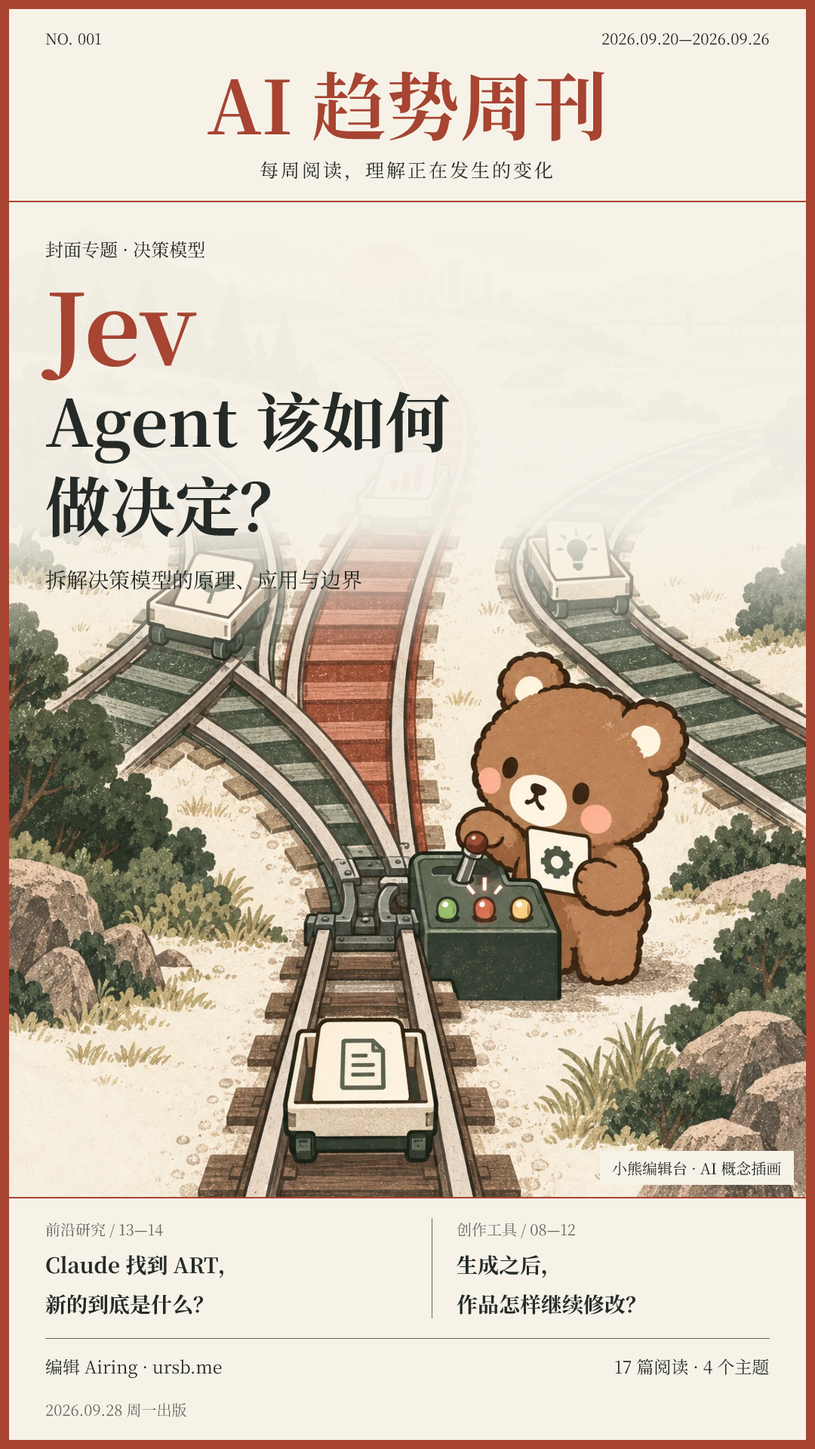
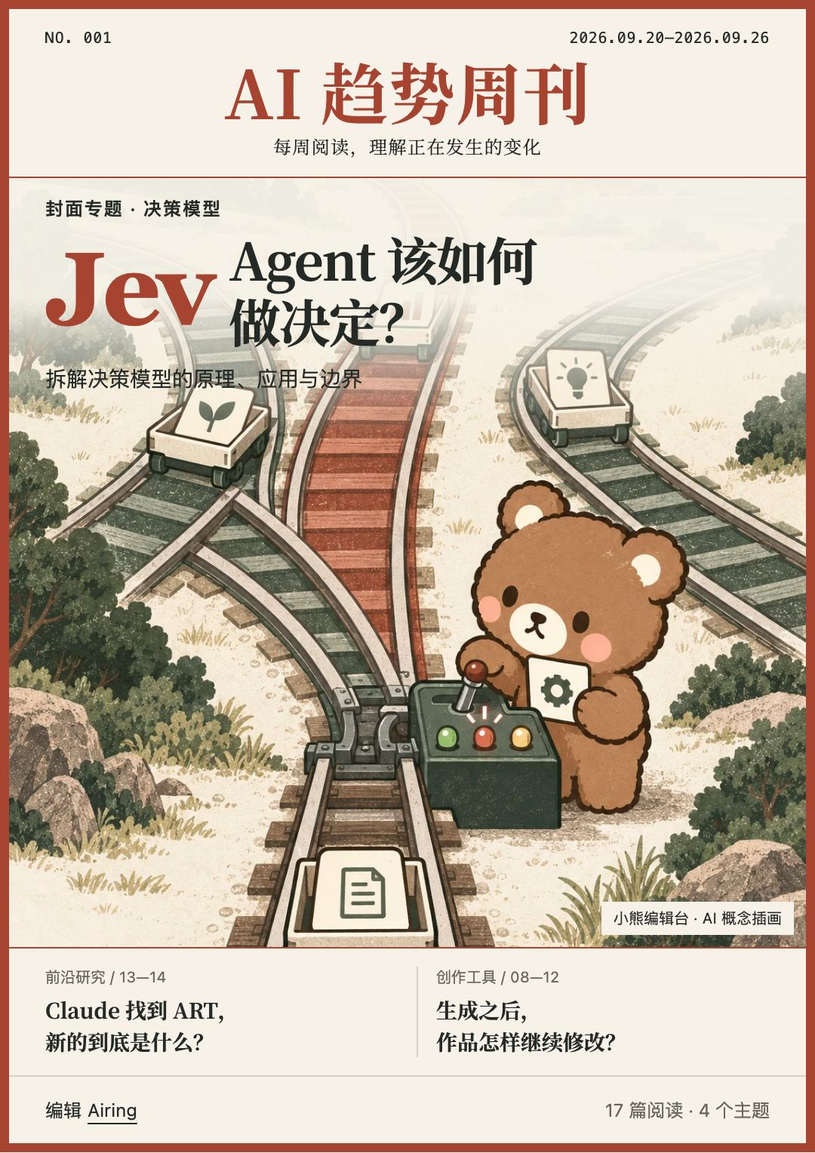
feat(reading): recompose weekly covers in A4 format

diff --git a/public/reading/weekly/001/cover.css b/public/reading/weekly/001/cover.css
@@ -1,32 +1,46 @@
 :root {
-  --cover-edge: 6px; --cover-brand: 48px; --cover-title: 42px;
-  --cover-subject: 64px; --cover-gutter: var(--s6); --cover-width: 540px;
+  --cover-edge: 6px; --cover-width: 540px; --cover-ratio: 210 / 297;
   --cover-wash: rgb(246 242 232 / .96); --cover-fade: rgb(246 242 232 / 0);
 }
 .issue-front { display: grid; grid-template-columns: minmax(0,var(--cover-width)) minmax(0,1fr); gap: var(--s12); padding-top: var(--s3); align-items: start; }
-.issue-cover { border: var(--cover-edge) solid var(--accent); min-width: 0; }
-.cover-masthead { padding: var(--s3) var(--cover-gutter) var(--s4); text-align: center; }
-.cover-edition { display: flex; justify-content: space-between; gap: var(--s2); font: 10px/1.8 var(--mono); letter-spacing: .03em; }
-.cover-masthead h1 { margin: var(--s2) 0; color: var(--accent); font: 700 var(--cover-brand)/1.2 var(--serif); letter-spacing: .015em; white-space: nowrap; }
-.cover-strapline { font: var(--meta)/1.6 var(--serif); letter-spacing: .1em; }
-.cover-art { position: relative; border-top: 1px solid var(--accent); }
-.cover-art > img { width: 100%; height: auto; }
-.cover-story { position: absolute; inset: 0 0 auto; padding: var(--s6) var(--cover-gutter) var(--s16); background: linear-gradient(var(--cover-wash) 0%,var(--cover-wash) 65%,var(--cover-fade) 100%); }
-.cover-kicker { font: 600 var(--meta)/1.6 var(--sans); letter-spacing: var(--wide-track); }
-.cover-story h2 { font: 700 var(--cover-title)/1.3 var(--serif); text-align: left; letter-spacing: -.025em; margin-top: var(--s1); }
-.cover-story h2 > span { display: block; }
-.cover-story .cover-subject { font: 700 var(--cover-subject)/1.05 Georgia,var(--serif); color: var(--accent); letter-spacing: -.04em; margin-bottom: var(--s2); }
-.cover-dek { font: var(--action)/1.7 var(--sans); margin-top: var(--s3); }
-.cover-art-credit { position: absolute; inset: auto var(--s2) var(--s2) auto; font: 10px/1.6 var(--sans); padding: var(--s1) var(--s2); background: var(--paper); }
-.cover-lines { display: grid; grid-template-columns: repeat(2,minmax(0,1fr)); padding: var(--s4) var(--cover-gutter); gap: var(--s4); border-top: 1px solid var(--accent); }
-.cover-lines a { text-decoration: none; min-width: 0; }
-.cover-lines a + a { border-left: 1px solid var(--faint); padding-left: var(--s4); }
+.issue-cover {
+  --cover-brand: clamp(22px,8.34cqw,44px); --cover-title: clamp(17px,6.44cqw,34px);
+  --cover-subject: clamp(32px,12.88cqw,68px); --cover-meta: clamp(8px,2.28cqw,12px);
+  --cover-copy: clamp(9px,2.66cqw,14px); --cover-deck: clamp(8px,2.66cqw,14px);
+  --cover-gutter: clamp(8px,4.55cqw,24px); --cover-space: clamp(4px,2.28cqw,12px);
+  --cover-micro: clamp(2px,.758cqw,4px); --cover-small: clamp(4px,1.516cqw,8px);
+  --cover-print: clamp(7px,1.9cqw,10px); --cover-wash-space: clamp(16px,6.062cqw,32px);
+  --cover-target: clamp(32px,8.334cqw,44px);
+  display: grid; grid-template-rows: auto minmax(0,1fr) auto auto;
+  width: 100%; min-width: 0; aspect-ratio: var(--cover-ratio);
+  border: var(--cover-edge) solid var(--accent); background: var(--paper);
+  container-type: inline-size;
+}
+.cover-masthead { padding: var(--cover-space) var(--cover-gutter); text-align: center; }
+.cover-edition { display: flex; justify-content: space-between; gap: var(--cover-small); font: var(--cover-print)/1.4 var(--mono); letter-spacing: .03em; white-space: nowrap; }
+.cover-masthead h1 { margin: var(--cover-micro) 0; color: var(--accent); font: 700 var(--cover-brand)/1.1 var(--serif); letter-spacing: .015em; white-space: nowrap; }
+.cover-strapline { font: var(--cover-meta)/1.4 var(--serif); letter-spacing: .06em; }
+.cover-art { position: relative; min-height: 0; overflow: hidden; border-top: 1px solid var(--accent); }
+.cover-art > img { width: 100%; height: 100%; object-fit: cover; object-position: 50% 65%; }
+.cover-story { position: absolute; inset: 0 0 auto; padding: var(--cover-space) var(--cover-gutter) var(--cover-wash-space); background: linear-gradient(var(--cover-wash) 0%,var(--cover-wash) 45%,var(--cover-fade) 100%); }
+.cover-kicker { font: 600 var(--cover-meta)/1.4 var(--sans); letter-spacing: var(--wide-track); }
+.cover-story h2 { display: grid; grid-template-columns: auto minmax(0,1fr); column-gap: var(--cover-space); align-items: center; font: 700 var(--cover-title)/1.2 var(--serif); text-align: left; letter-spacing: -.025em; margin-top: var(--cover-micro); }
+.cover-story h2 > span { display: block; white-space: nowrap; }
+.cover-story .cover-subject { grid-row: 1 / 3; font: 700 var(--cover-subject)/1.05 Georgia,var(--serif); color: var(--accent); letter-spacing: -.04em; }
+.cover-dek { font: var(--cover-deck)/1.5 var(--sans); margin-top: var(--cover-small); }
+.cover-art-credit { position: absolute; inset: auto var(--cover-small) var(--cover-small) auto; max-width: calc(100% - 2 * var(--cover-small)); font: var(--cover-print)/1.4 var(--sans); padding: var(--cover-micro) var(--cover-small); background: var(--paper); }
+.cover-lines { display: grid; grid-template-columns: repeat(2,minmax(0,1fr)); padding: var(--cover-space) var(--cover-gutter); gap: var(--cover-space); border-top: 1px solid var(--accent); }
+.cover-lines a { text-decoration: none; min-width: 0; min-height: var(--cover-target); }
+.cover-lines a + a { border-left: 1px solid var(--faint); padding-left: var(--cover-space); }
 .cover-lines a:hover strong { text-decoration: underline; text-underline-offset: var(--s1); }
-.cover-lines span { display: block; font: 10px/1.7 var(--sans); color: var(--muted); margin-bottom: var(--s2); }
-.cover-lines strong { font: 700 var(--action)/1.8 var(--serif); }
-.cover-byline { display: flex; align-items: center; gap: var(--s2); padding: 0 var(--cover-gutter); border-top: 1px solid var(--faint); font: var(--meta)/1.6 var(--sans); }
-.cover-byline a { display: inline-flex; align-items: center; min-height: var(--target); }
+.cover-lines span { display: block; font: var(--cover-print)/1.4 var(--sans); color: var(--muted); margin-bottom: var(--cover-micro); }
+.cover-lines strong { font: 700 var(--cover-copy)/1.5 var(--serif); }
+.cover-byline { display: flex; align-items: center; gap: var(--cover-micro); padding: 0 var(--cover-gutter); border-top: 1px solid var(--faint); font: var(--cover-meta)/1.4 var(--sans); white-space: nowrap; }
+.cover-byline a { display: inline-flex; align-items: center; min-width: var(--s6); min-height: var(--cover-target); }
 .cover-byline > span { margin-left: auto; color: var(--muted); }
+:lang(en) .issue-cover { --cover-brand: clamp(22px,7.96cqw,42px); --cover-title: clamp(16px,5.69cqw,30px); }
+:lang(en) .cover-masthead h1 { letter-spacing: -.04em; }
+:lang(en) .cover-strapline { letter-spacing: 0; }
 .issue-desk { padding-top: var(--s3); }
 .desk-heading { display: flex; justify-content: space-between; align-items: center; flex-wrap: wrap; gap: var(--s3); padding-bottom: var(--s4); border-bottom: 1px solid var(--ink); }
 .issue-serial { font: var(--meta)/1.8 var(--sans); white-space: nowrap; }
@@ -66,7 +80,6 @@
 .issue-index[open] .index-label-closed { display: none; }
 .outside-bar .quick-contents { min-height: var(--target); }
 @media (max-width:1000px) {
- :root { --cover-brand: 46px; --cover-title: 40px; --cover-subject: 60px; }
  .issue-front { grid-template-columns: 1fr; gap: var(--s8); }
  .issue-cover { width: min(100%,var(--cover-width)); justify-self: center; }
  .issue-desk { padding-top: 0; }
@@ -75,19 +88,8 @@
  .desk-actions { flex-direction: row; flex-wrap: wrap; align-items: center; gap: var(--s3) var(--s6); }
 }
 @media (max-width:680px) {
- :root { --cover-edge: 4px; --cover-brand: 30px; --cover-title: 27px; --cover-subject: 44px; --cover-gutter: var(--s3); }
+ :root { --cover-edge: 4px; }
  .issue-front { padding-top: 0; gap: var(--s6); }
- .cover-edition { flex-direction: column; gap: 0; font-size: 10px; }
- .cover-masthead { padding-top: var(--s2); padding-bottom: var(--s3); }
- .cover-strapline { font-size: 10px; letter-spacing: 0; }
- .cover-story { padding-top: var(--s3); padding-bottom: var(--s10); }
- .cover-kicker { font-size: 10px; }
- .cover-dek { font-size: var(--meta); margin-top: var(--s2); max-width: 16em; }
- .cover-lines { padding-top: var(--s3); padding-bottom: var(--s3); gap: var(--s2); }
- .cover-lines a + a { padding-left: var(--s2); }
- .cover-lines strong { font-size: var(--meta); }
- .cover-lines span { font-size: 10px; margin-bottom: var(--s1); }
- .cover-byline { font-size: 10px; gap: var(--s1); }
  .issue-desk h2 { font-size: var(--minor); }
  .issue-facts { display: block; }
  .issue-guide { margin-top: var(--s8); }

diff --git a/src/data/ai-weekly/001.en.html b/src/data/ai-weekly/001.en.html
@@ -1,7 +1,7 @@
 <!DOCTYPE html><html lang="en"><head><meta charset="utf-8"><meta name="viewport" content="width=device-width, initial-scale=1"><meta name="description" content="AI Trends Weekly 001: Jev and agent decisions. Sixteen in-depth columns from Airing’s Reading Stream on decision models, AI creation and Claude’s biology research."><meta name="author" content="Airing"><meta name="theme-color" content="#f6f2e8"><title>AI Trends Weekly 001 · Jev: how should an agent make decisions?</title><link rel="canonical" href="https://ursb.me/en/reading/weekly/001/"><meta property="og:type" content="article"><meta property="og:title" content="AI Trends Weekly 001 · Jev: how should an agent make decisions?"><meta property="og:image" content="https://ursb.me/reading/weekly/001/assets/share-cover-01-en.png"><meta property="og:url" content="https://ursb.me/en/reading/weekly/001/"><link rel="icon" href="data:,"><link rel="preload" href="/reading/weekly/001/assets/serif-400.woff2" as="font" type="font/woff2" crossorigin=""><link rel="preload" href="/reading/weekly/001/assets/serif-700.woff2" as="font" type="font/woff2" crossorigin=""><link rel="stylesheet" href="/reading/weekly/001/tokens.css"><link rel="stylesheet" href="/reading/weekly/001/issue.css"><link rel="stylesheet" href="/reading/weekly/001/cover.css"><link rel="stylesheet" href="/reading/weekly/001/source-layout.css"><link rel="stylesheet" href="/reading/weekly/001/share.css"></head>
 <body><a class="skip" href="#agents">Skip to articles</a><div class="outside-bar"><a href="/en/reading/weekly/">← All issues</a><a class="quick-contents" href="#issue-guide">Inside this issue ↓</a></div>
 <main class="paper" id="main"><header id="top" class="issue-front">
-  <div class="issue-cover" aria-labelledby="publication-name">
+  <div class="issue-cover" data-cover-format="a4" aria-labelledby="publication-name">
     <div class="cover-masthead">
       <p class="cover-edition"><span>NO. 001</span><span>2026.09.20—2026.09.26</span></p>
       <h1 id="publication-name">AI Trends Weekly</h1>
@@ -155,7 +155,7 @@
 <section class="editorial-note" aria-labelledby="editorial-title"><h2 id="editorial-title">About this issue</h2><p>This issue covers 17 reads saved September 20–26 in UTC+8, edited into 16 columns. The Made with Jev showcase was saved on both September 20 and 21; column 05 discusses them together and retains both Reading Stream links. Other reports on the same topic have separate columns. The articles combine original sources, primary materials and editorial analysis. Quoted figures retain their measurement definitions; author- or vendor-reported results are not our own tests. Jev’s public examples, the unknowns in ART’s mechanism and numerical discrepancies between sources are discussed in the relevant columns.</p><p>Editor: <a href="https://ursb.me/en/" rel="author">Airing</a>. The bear comes from Airing’s homepage. The cover and three thematic illustrations are AI-generated editorial concepts. Original and verification links follow each article. The full collection is available through the <a href="https://ursb.me/en/reading/feed.xml">Reading Stream RSS</a>.</p></section>
 <footer class="colophon"><span>AI Trends Weekly · No. 001</span><span>Edited by <a href="https://ursb.me/en/" rel="author">Airing</a> / Edited with AI assistance</span><button class="share-trigger" type="button" aria-haspopup="dialog">Share this issue ↗</button><a class="action" href="#top">Back to cover ↑</a><p>September 20–26, 2026 · Published Monday, September 28. 17 saved reads, 16 columns, 4 themes.</p></footer></main><p class="outside-footer">Read widely. Read deeply.</p><dialog id="image-viewer" aria-labelledby="viewer-title" aria-describedby="viewer-hint"><div class="viewer-toolbar"><h2 id="viewer-title">Source image</h2><button id="image-size" type="button" aria-pressed="false">Original size</button><button id="close-image" type="button" autofocus="">Close</button></div><p id="viewer-hint">Switch to original size to scroll through details. Press Esc to close.</p><div id="viewer-scroll" class="viewer-scroll" tabindex="0" role="region" aria-label="Image details; scroll to explore"><img id="viewer-image" alt=""></div><div class="viewer-foot"><p id="viewer-caption"></p><a id="viewer-source">View source ↗</a></div></dialog><script src="/reading/weekly/001/reader.js" defer=""></script><dialog id="issue-share" aria-labelledby="share-title" aria-describedby="share-note" data-share-title="AI Trends Weekly · No. 001: Jev and agent decisions">
   <div class="share-heading"><div><p class="kicker">No. 001 · Edited by Airing</p><h2 id="share-title">Share a week of discoveries.</h2></div><button class="share-close" type="button" aria-label="Close sharing">×</button></div>
-  <div class="share-preview"><img id="share-cover" src="/reading/weekly/001/assets/share-cover-01-en.png" width="1080" height="1920" alt="AI Trends Weekly No. 001 cover: Jev and agent decisions. September 20–26, 2026. Edited by Airing." loading="lazy"></div>
+  <div class="share-preview"><img id="share-cover" src="/reading/weekly/001/assets/share-cover-01-en.png" width="1080" height="1528" alt="AI Trends Weekly No. 001 cover: Jev and agent decisions. September 20–26, 2026. Edited by Airing." loading="lazy"></div>
   <div class="share-controls">
     <label class="share-link-label" for="share-url">Issue link</label>
     <div class="share-link-row"><input id="share-url" readonly="" value="https://ursb.me/en/reading/weekly/001/" spellcheck="false"><button id="share-copy" type="button"><svg viewBox="0 0 24 24" aria-hidden="true"><rect x="8" y="8" width="12" height="12" rx="2"></rect><path d="M16 8V4H4v12h4"></path></svg><span>Copy link</span></button></div>

diff --git a/src/data/ai-weekly/001.html b/src/data/ai-weekly/001.html
@@ -2,7 +2,7 @@
 <html lang="zh-CN"><head><meta charset="utf-8"><meta name="viewport" content="width=device-width, initial-scale=1"><meta name="description" content="AI 趋势周刊第 001 期：Jev，Agent 该如何做决定？来自 Airing 阅读流的 16 篇深入专栏，涵盖决策模型、AI 创作与 Claude 的生物学研究。"><meta name="author" content="Airing"><meta name="theme-color" content="#f6f2e8"><title>AI 趋势周刊 001 · Jev，Agent 该如何做决定？</title><link rel="canonical" href="https://ursb.me/reading/weekly/001/"><meta property="og:type" content="article"><meta property="og:title" content="AI 趋势周刊 001 · Jev，Agent 该如何做决定？"><meta property="og:image" content="https://ursb.me/reading/weekly/001/assets/share-cover-01.png"><meta property="og:url" content="https://ursb.me/reading/weekly/001/"><link rel="icon" href="data:,"><link rel="preload" href="assets/serif-400.woff2" as="font" type="font/woff2" crossorigin><link rel="preload" href="assets/serif-700.woff2" as="font" type="font/woff2" crossorigin><link rel="stylesheet" href="tokens.css"><link rel="stylesheet" href="issue.css"><link rel="stylesheet" href="cover.css"><link rel="stylesheet" href="source-layout.css"><link rel="stylesheet" href="share.css"></head>
 <body><a class="skip" href="#agents">跳到正文</a><div class="outside-bar"><a href="/reading/weekly/">← 周刊书架</a><a class="quick-contents" href="#issue-guide">跳到本期目录 ↓</a></div>
 <main class="paper" id="main"><header id="top" class="issue-front">
-  <div class="issue-cover" aria-labelledby="publication-name">
+  <div class="issue-cover" data-cover-format="a4" aria-labelledby="publication-name">
     <div class="cover-masthead">
       <p class="cover-edition"><span>NO. 001</span><span>2026.09.20—2026.09.26</span></p>
       <h1 id="publication-name">AI 趋势周刊</h1>
@@ -156,7 +156,7 @@
 <section class="editorial-note" aria-labelledby="editorial-title"><h2 id="editorial-title">关于这一期</h2><p>本期按 UTC+8 收藏日期整理 9 月 20—26 日的 17 篇阅读，编为 16 篇专栏。9 月 20 日与 21 日两次收藏的 Made with Jev 作品墙合并在第 05 篇讨论，两个阅读流入口均保留；其余同题报道各自展开。正文结合原文、一手资料与编辑分析；引用数据注明其口径，作者或厂商报告的效果不等于本刊实测。Jev 的公开案例、ART 的机制未知项，以及材料中的数字差异，均在对应专栏展开。</p><p>编辑：<a href="https://ursb.me/" rel="author">Airing</a>。小熊沿用 Airing 首页的角色形象，封面与三幅主题图为 AI 生成的编辑概念插画。原文和核验链接附在每篇之后；完整收藏入口为 <a href="https://ursb.me/reading/feed.xml">阅读流 RSS</a>。</p></section>
 <footer class="colophon"><span>AI 趋势周刊 · 第 001 期</span><span>编辑 <a href="https://ursb.me/" rel="author">Airing</a> / AI 辅助整理</span><button class="share-trigger" type="button" aria-haspopup="dialog">分享本期 ↗</button><a class="action" href="#top">回到封面 ↑</a><p>2026.09.20—2026.09.26 · 2026.09.28 周一出版。17 篇收藏，16 篇专栏，4 个主题。</p></footer></main><p class="outside-footer">读得多，也读得深。</p><dialog id="image-viewer" aria-labelledby="viewer-title" aria-describedby="viewer-hint"><div class="viewer-toolbar"><h2 id="viewer-title">原文图像</h2><button id="image-size" type="button" aria-pressed="false">原尺寸</button><button id="close-image" type="button" autofocus>关闭</button></div><p id="viewer-hint">切换原尺寸后，可滚动查看细节；按 Esc 关闭。</p><div id="viewer-scroll" class="viewer-scroll" tabindex="0" role="region" aria-label="图像细节，可滚动"><img id="viewer-image" alt=""></div><div class="viewer-foot"><p id="viewer-caption"></p><a id="viewer-source">查看出处 ↗</a></div></dialog><script src="reader.js" defer></script><dialog id="issue-share" aria-labelledby="share-title" aria-describedby="share-note" data-share-title="AI 趋势周刊 · 第 001 期：Jev，Agent 该如何做决定？">
   <div class="share-heading"><div><p class="kicker">第 001 期 · Airing 编辑</p><h2 id="share-title">把这一期，分享出去。</h2></div><button class="share-close" type="button" aria-label="关闭分享">×</button></div>
-  <div class="share-preview"><img id="share-cover" src="assets/share-cover-01.png" width="1080" height="1920" alt="AI 趋势周刊 第 001 期封面：Jev，Agent 该如何做决定？；2026.09.20—2026.09.26，编辑 Airing。" loading="lazy"></div>
+  <div class="share-preview"><img id="share-cover" src="assets/share-cover-01.png" width="1080" height="1528" alt="AI 趋势周刊 第 001 期封面：Jev，Agent 该如何做决定？；2026.09.20—2026.09.26，编辑 Airing。" loading="lazy"></div>
   <div class="share-controls">
     <label class="share-link-label" for="share-url">本期链接</label>
     <div class="share-link-row"><input id="share-url" readonly value="https://ursb.me/reading/weekly/001/" spellcheck="false"><button id="share-copy" type="button"><svg viewBox="0 0 24 24" aria-hidden="true"><rect x="8" y="8" width="12" height="12" rx="2"/><path d="M16 8V4H4v12h4"/></svg><span>复制链接</span></button></div>

diff --git a/src/styles/ai-weekly-detail.css b/src/styles/ai-weekly-detail.css
@@ -7,10 +7,6 @@
 .weekly-invitation-actions { display: flex; flex-direction: column; align-items: flex-start; gap: var(--s2); flex-shrink: 0; }
 .weekly-invitation button { min-height: var(--target); padding: var(--s3) var(--s4); border: 1px solid var(--ink); background: var(--ink); color: var(--paper); font: 600 var(--action)/1.5 var(--sans); cursor: pointer; }
 .weekly-invitation-actions a { display: inline-flex; align-items: center; min-height: var(--target); font: var(--action)/1.5 var(--sans); }
-html[lang="en"] .cover-masthead h1 { font-size: 43px; letter-spacing: -.04em; }
-html[lang="en"] .cover-strapline { letter-spacing: 0; }
-html[lang="en"] .cover-dek { max-width: none; }
-html[lang="en"] .cover-story h2 { font-size: 38px; }
 html[lang="en"] .column-section p { text-align: left; line-height: 1.8; }
 html[lang="en"] .title-phrase { display: inline; }
 html[lang="en"] .feature-article h3 { font-size: 36px; line-height: 1.4; }
@@ -18,10 +14,6 @@ html[lang="en"] .issue-facts > div { grid-template-columns: 110px minmax(0, 1fr)
 @media (max-width: 680px) {
   .weekly-invitation { flex-direction: column; align-items: flex-start; gap: var(--s4); }
   .weekly-invitation h2 { font-size: var(--minor); }
-  html[lang="en"] .cover-masthead h1 { font-size: clamp(23px, 6.7vw, 38px); }
-  html[lang="en"] .cover-story h2 { font-size: 25px; }
-  html[lang="en"] .cover-byline { flex-wrap: wrap; padding-block: var(--s2); }
-  html[lang="en"] .cover-byline > span { margin-left: 0; }
   html[lang="en"] .feature-article h3 { font-size: 30px; }
 }
 @media print { .weekly-invitation, .subscription-dialog { display: none; } }

diff --git a/public/reading/weekly/001/share.css b/public/reading/weekly/001/share.css
@@ -10,7 +10,7 @@
 .share-close { width: var(--target); height: var(--target); flex-shrink: 0; border: 1px solid var(--faint); border-radius: 50%; color: var(--ink); background: var(--paper); font: var(--section)/1 var(--sans); cursor: pointer; }
 .share-close:hover { border-color: var(--accent); color: var(--accent); }
 .share-preview { display: flex; justify-content: center; padding: var(--s4); background: var(--inset); border-block: 1px solid var(--faint); }
-.share-preview img { width: auto; height: auto; max-width: 100%; max-height: min(48dvh,620px); object-fit: contain; box-shadow: 0 var(--s1) var(--s4) rgb(0 0 0 / .12); }
+.share-preview img { width: auto; height: auto; max-width: 100%; max-height: min(48dvh,620px); aspect-ratio: var(--cover-ratio); object-fit: contain; box-shadow: 0 var(--s1) var(--s4) rgb(0 0 0 / .12); }
 .share-controls { padding: var(--s4) var(--s5); }
 .share-link-label { display: block; font: var(--meta)/1.8 var(--sans); color: var(--muted); margin-bottom: var(--s1); }
 .share-link-row { display: flex; gap: var(--s2); }

diff --git a/src/styles/ai-weekly.css b/src/styles/ai-weekly.css
@@ -43,7 +43,7 @@
   content: '';
   pointer-events: none;
 }
-.ai-weekly-book img { display: block; width: 100%; height: auto; aspect-ratio: 9 / 16; }
+.ai-weekly-book img { display: block; width: 100%; height: auto; aspect-ratio: 210 / 297; object-fit: contain; }
 .ai-weekly-meta {
   display: flex;
   flex-wrap: wrap;

diff --git a/DESIGN.md b/DESIGN.md
@@ -1,5 +1,39 @@
 # Airing's Blog Design System
 
+## AI weekly A4 cover · September 27
+
+The approved red-and-cream cover is a real HTML magazine composition with A4
+portrait proportions (`--cover-ratio: 210 / 297`), not a resized screenshot.
+Its desktop width is 540px (763.714px tall); share exports round to 1080×1528px
+and shelf exports to 540×764px. The issue, share dialog, shelf, archive, homepage,
+RSS and email preserve the complete cover ratio. The existing bear railway art,
+Jev subject, editorial red `#a74432`, paper `#f6f2e8` and ink `#252a27` remain.
+Coverage is September 20–26, publication September 28, with 17 reads in 16 columns.
+
+The reusable `IssueCover` has four rows: compact masthead, flexible illustration
+with a real DOM headline, two linked cover lines, and an editor byline. `Jev` sits
+beside the two-line question so the bear and railway junction retain a generous
+visible field. The illustration alone uses `object-fit: cover` and a 65% vertical
+focus; never stretch text or crop the complete publication image. The cream wash
+fades behind the upper headline. No new artwork, motion, palette or dependencies.
+
+Cover-specific tokens: 6px edge (4px below 680px), 540px maximum width; 8–24px
+gutter and 4–12px internal spacing; 22–44px masthead, 17–34px question, 32–68px
+Jev subject, 8–12px metadata, 9–14px teaser text and 8–14px cover deck. Tiny print
+uses 7–10px. Sizes respond to the cover container rather than the viewport.
+English uses a 22–42px masthead and a 16–30px question; explicit phrase spans keep
+the question in two intentional lines. On narrow screens the cover remains a
+proportional poster, including its rules, caption, wash and 32–44px link targets;
+the adjacent issue desk retains full-size reading type and 44px actions. The
+editor link is at least 24px wide. All links retain visible keyboard focus.
+
+Personas: Chinese and English readers, narrow-screen readers, keyboard users,
+and people saving a cover to share. Check complete art and unclipped text at
+375/768/1280px in the issue and all entry surfaces, then regenerate localized
+share and shelf assets from the same live `.issue-cover` element after fonts
+and the illustration finish decoding. Static review is not visual acceptance;
+the browser evidence and two independent visual reviews belong to the release.
+
 ## Article like reception · September 25
 
 Keep the original centered like capsule. Confirmed new likes add a small press/rebound, heart pop, six coral glints and count lift; transient presentation never delays or changes the real API response. The existing watercolor panda catches one heart, hugs it and returns in about 6.2–6.4 seconds, once per page. Follow `src/components/like-delight/DESIGN.md` for timing, visible-recipient selection, cleanup and reduced-motion behavior. No second mascot or playback controls.

diff --git a/tests/checklist.md b/tests/checklist.md
@@ -2071,3 +2071,12 @@
 - [ ] 邮件内封面、按钮、主题与全部专栏链接有期号/位置 UTM，保留锚点；不携带订阅者邮箱或凭证。
 - [ ] 已签名的发送/投递/打开/点击/退信/投诉/延迟/失败/抑制回调正确归到周刊期号及语言；统计后端失败返回 503，非法签名拒绝。
 - [ ] 点击退订/切换语言仅记录动作类别，事件与日志中不包含 token 或收件人地址。
+
+### AI 趋势周刊上线加固与 A4 封面（2026-09-27）
+- [x] 中英文详情在 375 / 768 / 1280px 保持 210:297 封面比例，标题、完整小熊、导读、编辑和日期无裁切；分享图为 1080×1528，书架图为 540×764。
+- [x] 首页双语入口、阅读流书架、周刊归档、分享弹窗、双语邮件均使用完整 A4 封面，键盘仍能打开链接和关闭分享弹窗。
+- [x] 双语 RSS 所有期刊及专栏链接带 rss 来源、期号、语言和专栏参数；GUID 保持无跟踪参数的永久地址，封面使用完整出版图。
+- [x] 已验签回调的相同 Svix ID 只由一个请求持有；完成后重复回调不重复上报，并发、数据库重启和租约过期有真实 PostgreSQL 验证。
+- [x] 发送前持久化每期每人投递记录；供应商已接受但日志失败时以相同载荷/幂等键重试，仅接受一封邮件；超过 23 小时及载荷变化均停止自动重发。
+- [x] 完成事务原子写入投递记录与发送日志，重复确认仅一条成功日志；中文/英文、部分失败、并发、预览隔离、只读预演均有回归覆盖。
+- [x] 首期 CLI 必须明确期号及 dry-run/send，错误参数及过期预约不初始化发信服务；systemd 预约配置固定 2026-09-28 08:00 UTC+8，不立即触发邮件。

diff --git a/src/components/reading/ai-weekly/DESIGN.md b/src/components/reading/ai-weekly/DESIGN.md
@@ -10,7 +10,7 @@ The reading stream is the daily collection; the shelf is its edited weekly editi
 
 - Consume `--c-bg`, `--c-bg-alt`, `--c-text`, `--c-text-muted`, `--c-border`, `--accent`, `--font-mono` from the site. Do not introduce a competing palette.
 - Local tokens: serif editorial stack; spacing 8/12/16/24/32/40/48; metadata 12px, copy 14–16px; action targets at least 44px.
-- `IssueCover` renders the real cover as an image with intrinsic 540×960 dimensions. It is an illustration of the publication, not a raster substitute for navigation or page UI. Text, metadata, titles, contents and links remain real HTML.
+- `IssueCover` renders the complete A4 cover (`210 / 297`) with intrinsic 540×764 dimensions. Localized share images are 1080×1528. Both are exports of the same real HTML cover, recomposed at 540×763.714 rather than stretched from the old portrait. It is an illustration of the publication, not a raster substitute for navigation or page UI. Text, metadata, titles, contents and links remain real HTML.
 - Paper edges and a narrow book spine are the only dimensional decoration; no card shadows, gradients, animated books or wood textures. A thin shelf rule joins the cover to its surrounding layout.
 - Shared cover, metadata and action styles are used by both entry and archive. New issues come from one typed catalog.
 
